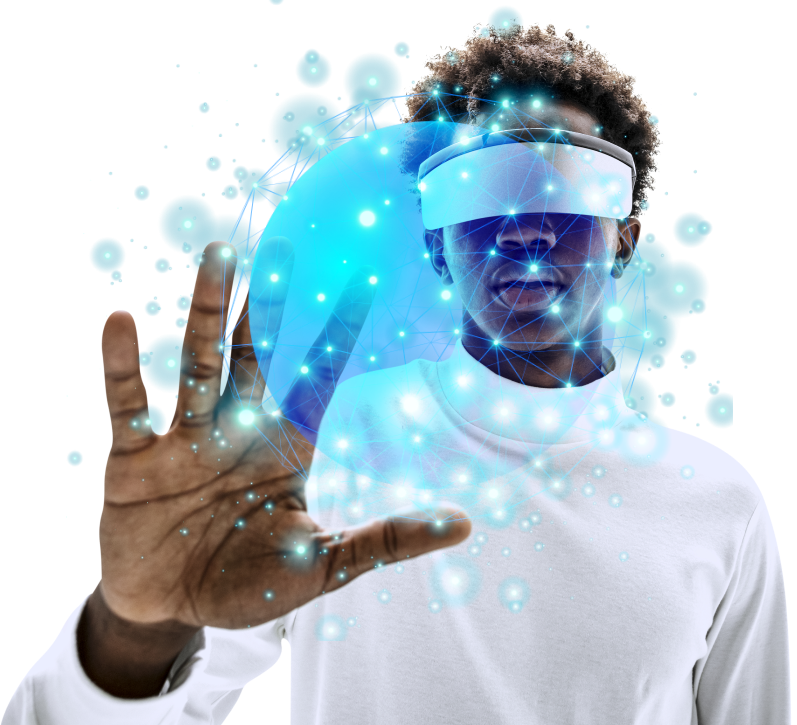
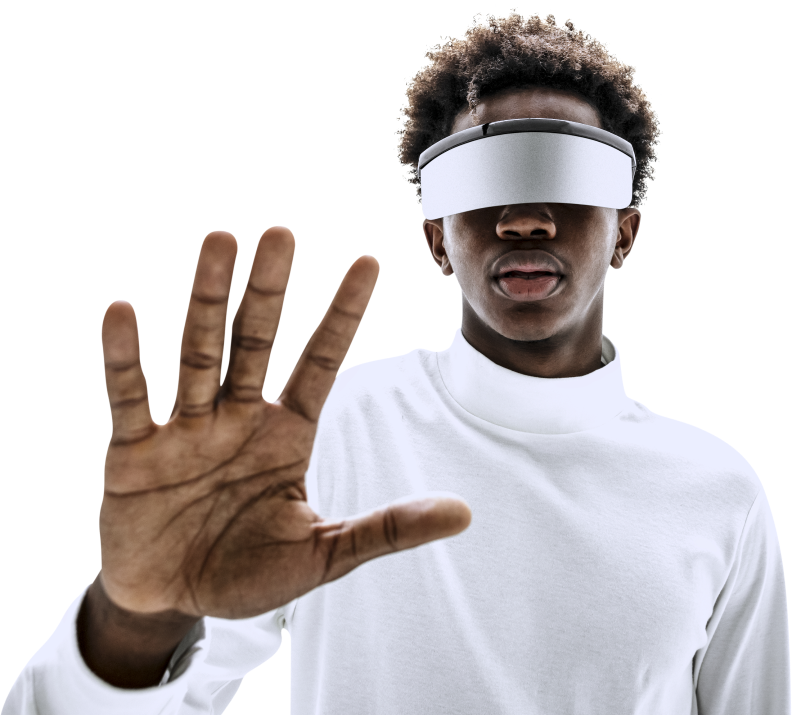
update

diff --git a/src/ui/HeroSection.jsx b/src/ui/HeroSection.jsx
@@ -3,6 +3,7 @@ import bulb from "../assets/bulb.png";
 import PrimaryBtn from "./PrimaryBtn";
 import Timer from "./Timer";
 import heroImg from "../assets/heroImg.png";
+import heroVoid from "../assets/heroVoid.png";
 import whiteStar from "../assets/whiteStar.svg";
 import greyStar from "../assets/greyStar.svg";
 
@@ -43,11 +44,23 @@ function HeroSection() {
         </svg>
       </h4>
       <div className="relative  flex flex-col">
-        <img
+        {/* <img
           src={heroImg}
           alt=""
           className="absolute bottom-[-40px] right-[-60px] z-0 h-full w-[680] max-w-[715px]"
-        />
+        /> */}
+        <div className="absolute bottom-[-20px] right-[-60px] z-0 flex h-full w-[680] max-w-[715px] items-center justify-center">
+          {/* <Star
+              src="/icon/graystar.png"
+              className="hidden tab:flex left-[15%] top-[5%]"
+            /> */}
+          <img
+            src={heroVoid}
+            alt=""
+            className="absolute z-40 animate-pulse duration-300"
+          />
+          <img src={heroImg} alt="" className="grayscale" />
+        </div>
         <img
           src={bulb}
           alt=""

diff --git a/src/ui/TwinkleStar.jsx b/src/ui/TwinkleStar.jsx
@@ -1,0 +1,18 @@
+/* eslint-disable react/prop-types */
+import { motion } from "framer-motion";
+
+function TwinkleStar({ className, star }) {
+  return (
+    <motion.img
+      initial={{ opacity: 0, scale: 0.5 }}
+      whileInView={{ opacity: 1, scale: 1 }}
+      transition={{ type: "spring", duration: 2 }}
+      viewport={{ once: true }}
+      src={star}
+      alt="star"
+      className={`tab:w-5 tab:h-5 absolute w-3 animate-pulse duration-500 ${className}`}
+    />
+  );
+}
+
+export default TwinkleStar;
